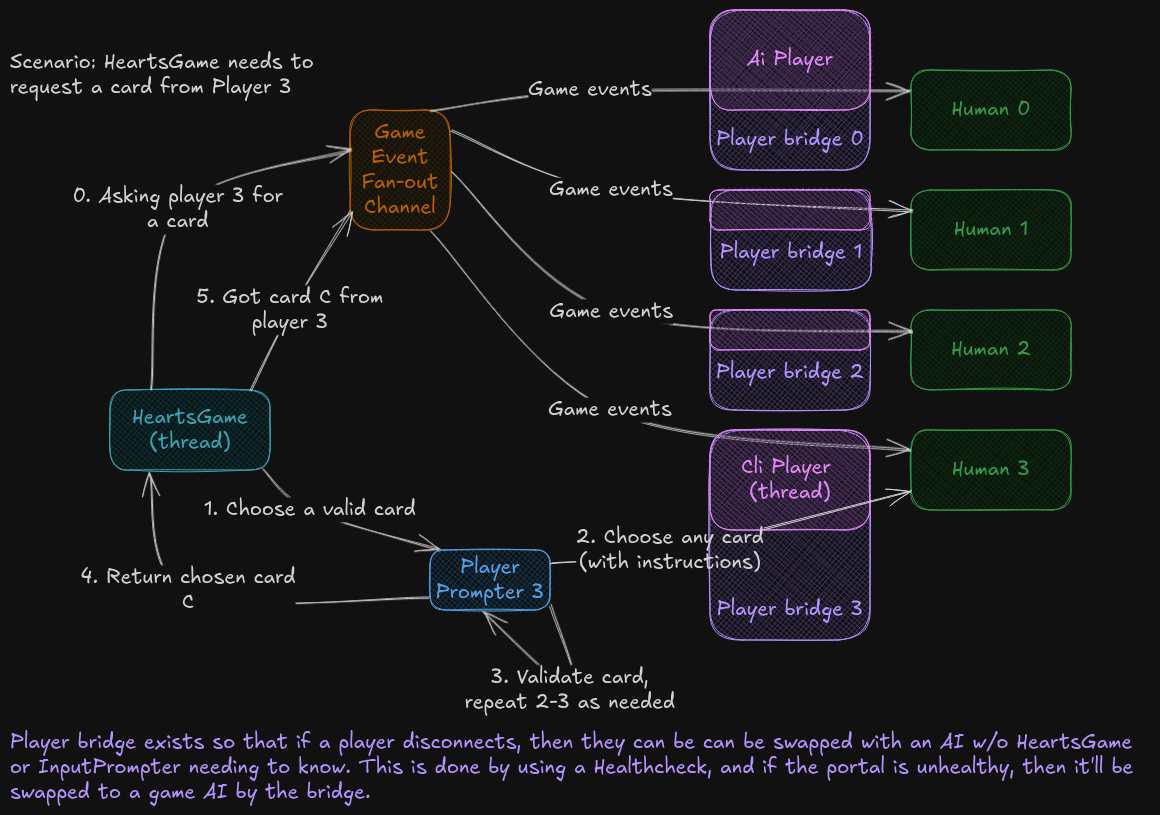
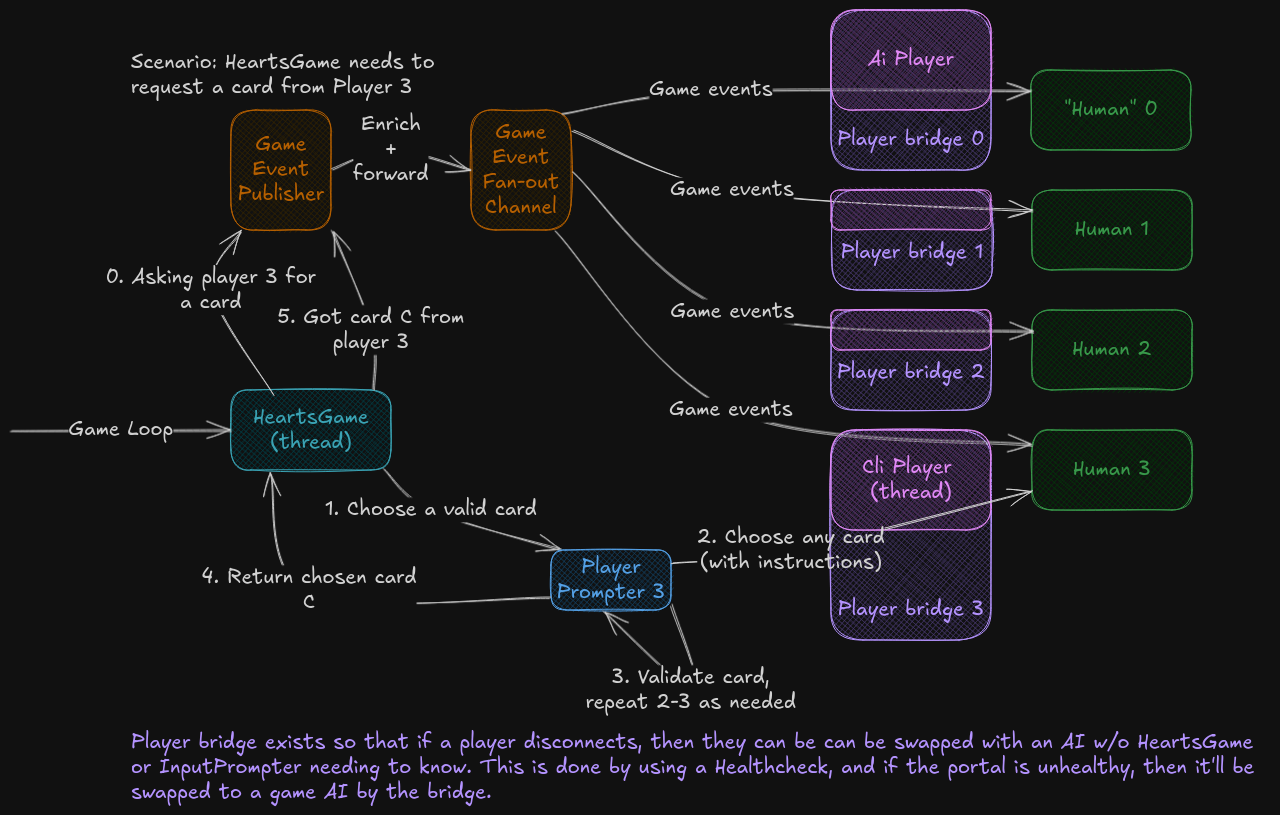
Add IGameEventPublisher

Changed region(s): [[0.0, 0.0, 0.9931, 0.9816], [0.4966, 0.3067, 0.5276, 0.3374]]

diff --git a/src/Library/Core/CardUtils/Dealer.cs b/src/Library/Core/CardUtils/Dealer.cs
@@ -1,6 +1,5 @@
 using System.Runtime.InteropServices;
 using System.Security.Cryptography;
-using System.Threading.Channels;
 
 using Microsoft.Extensions.Logging;
 
@@ -32,15 +31,15 @@ public interface IDealer
 
 public interface IDealerFactory
 {
-    IDealer Make(ChannelWriter<GameEvent> gameEventWriter);
+    IDealer Make(IGameEventPublisher gameEventPublisher);
 }
 
 public class DealerFactory(Dealer.IRng rng, ILogger<Dealer> logger) : IDealerFactory
 {
-    public IDealer Make(ChannelWriter<GameEvent> gameEventWriter) => new Dealer(gameEventWriter, rng, logger);
+    public IDealer Make(IGameEventPublisher gameEventPublisher) => new Dealer(gameEventPublisher, rng, logger);
 }
 
-public class Dealer(ChannelWriter<GameEvent> gameEventWriter, Dealer.IRng rng, ILogger<Dealer> logger) : IDealer
+public class Dealer(IGameEventPublisher gameEventPublisher, Dealer.IRng rng, ILogger<Dealer> logger) : IDealer
 {
     public async Task<List<Cards<TCard>>> ShuffleCutDeal<TCard>(Cards<TCard> deck, int numHands, CancellationToken cancellationToken)
         where TCard : Card
@@ -55,7 +54,7 @@ public class Dealer(ChannelWriter<GameEvent> gameEventWriter, Dealer.IRng rng, I
     {
         logger.LogInformation("Shuffling the deck");
         rng.Shuffle(CollectionsMarshal.AsSpan(deck));
-        await gameEventWriter.WriteAsync(GameEvent.DeckShuffled.Singleton, cancellationToken);
+        await gameEventPublisher.Publish(GameEvent.DeckShuffled.Singleton, cancellationToken);
         return deck;
     }
 
@@ -90,7 +89,7 @@ public class Dealer(ChannelWriter<GameEvent> gameEventWriter, Dealer.IRng rng, I
         Cards<TCard> newCards = new(capacity: deck.Count);
         newCards.AddRange(cardsAboveCut);
         newCards.AddRange(cardsBelowAndAtCut);
-        await gameEventWriter.WriteAsync(GameEvent.DeckCut.Singleton, cancellationToken);
+        await gameEventPublisher.Publish(GameEvent.DeckCut.Singleton, cancellationToken);
         return newCards;
     }
 
@@ -113,7 +112,7 @@ public class Dealer(ChannelWriter<GameEvent> gameEventWriter, Dealer.IRng rng, I
             iCurrHand.Tick();
         }
 
-        await gameEventWriter.WriteAsync(new GameEvent.DeckDealt(numHands), cancellationToken);
+        await gameEventPublisher.Publish(new GameEvent.DeckDealt(numHands), cancellationToken);
         return hands;
     }
 

diff --git a/tests/XUnitTests/Library/Core/CardUtils/DealerTests.cs b/tests/XUnitTests/Library/Core/CardUtils/DealerTests.cs
@@ -1,7 +1,5 @@
-using System.Threading.Channels;
-
 using CoolCardGames.Library.Core.CardUtils;
-using CoolCardGames.Library.Core.GameEvents;
+using CoolCardGames.Library.Core.GameEventTypes;
 
 using Microsoft.Extensions.Logging.Abstractions;
 
@@ -9,16 +7,16 @@ namespace CoolCardGames.XUnitTests.Library.Core.CardUtils;
 
 public sealed class DealerTests
 {
-    private readonly Channel<GameEvent> _channel = Channel.CreateUnbounded<GameEvent>();
     private readonly Dealer _dealer;
     private readonly RngMock _rng;
-    private readonly List<GameEvent> _events = [];
+    private readonly ListGameEventPublisher _publisher;
 
     public DealerTests()
     {
+        _publisher = new ListGameEventPublisher();
         _rng = new RngMock();
         _dealer = new Dealer(
-            gameEventWriter: _channel.Writer,
+            gameEventPublisher: _publisher,
             rng: _rng,
             logger: NullLogger<Dealer>.Instance);
     }
@@ -58,8 +56,8 @@ public sealed class DealerTests
         ]);
         Assert.True(deck.Matches(expectedDeck));
 
-        Assert.Single(_events);
-        Assert.Equal(GameEvent.DeckCut.Singleton, _events[0]);
+        Assert.Single(_publisher.Events);
+        Assert.Equal(GameEvent.DeckCut.Singleton, _publisher.Events[0]);
     }
 
     [Fact]
@@ -76,8 +74,8 @@ public sealed class DealerTests
                 numChangedDecks++;
             prevDeck = new Cards<Card>(deck);
 
-            Assert.Equal(i+1, _events.Count);
-            Assert.Equal(GameEvent.DeckShuffled.Singleton, _events[i]);
+            Assert.Equal(i+1, _publisher.Events.Count);
+            Assert.Equal(GameEvent.DeckShuffled.Singleton, _publisher.Events[i]);
         }
 
         Assert.True(numChangedDecks > 3);
@@ -133,8 +131,8 @@ public sealed class DealerTests
         Assert.True(expectedHand2.Matches(hands[2]));
         Assert.True(expectedHand3.Matches(hands[3]));
 
-        Assert.Single(_events);
-        Assert.Equal(new GameEvent.DeckDealt(4), _events[0]);
+        Assert.Single(_publisher.Events);
+        Assert.Equal(new GameEvent.DeckDealt(4), _publisher.Events[0]);
     }
 
     private class RngMock : Dealer.IRng

diff --git a/src/Library/Games/Hearts/HeartsGameFactory.cs b/src/Library/Games/Hearts/HeartsGameFactory.cs
@@ -10,13 +10,14 @@ namespace CoolCardGames.Library.Games.Hearts;
 
 public class HeartsGameFactory(
     ChannelFanOutFactory channelFanOutFactory,
+    ChannelGameEventPublisherFactory channelGameEventPublisherFactory,
     IDealerFactory dealerFactory,
     IOptionsMonitor<HeartsSettings> settingsMonitor,
     ILogger<HeartsGame> logger)
 {
     public HeartsSettings DefaultHeartsSettings => settingsMonitor.CurrentValue;
 
-    public HeartsGame Make(List<IPlayer<HeartsCard>> players, HeartsSettings? settings = null)
+    public Game Make(List<IPlayer<HeartsCard>> players, CancellationToken cancellationToken, HeartsSettings? settings = null)
     {
         if (players.Count != HeartsGame.NumPlayers)
             throw new ArgumentException($"{nameof(players)} must have {HeartsGame.NumPlayers} elements, but it has {players.Count} elements");
@@ -46,16 +47,17 @@ public class HeartsGameFactory(
             .ToList()
             .AsReadOnly();
 
-        var gameEvents = Channel.CreateUnbounded<GameEvent>();
-        var dealer = dealerFactory.Make(gameEvents.Writer);
+        var gameEventsChannel = Channel.CreateUnbounded<GameEvent>();
+        var gameEventsPublisher = channelGameEventPublisherFactory.Make(gameEventsChannel.Writer);
+        var dealer = dealerFactory.Make(gameEventsPublisher);
 
-        var channelFanOut = channelFanOutFactory.Make(gameEvents.Reader);
+        var channelFanOut = channelFanOutFactory.Make(gameEventsChannel.Reader);
         foreach (var player in players)
         {
             var chanReader = channelFanOut.CreateReader(name: player.AccountCard.ToString());
             player.CurrentGamesEvents = chanReader;
         }
 
-        return new HeartsGame(gameEvents.Writer, prompters, gameState, dealer, settings, logger);
+        return new HeartsGame(gameEventsPublisher, prompters, gameState, dealer, settings, logger);
     }
 }

diff --git a/src/Library/Games/Hearts/HeartsGame.cs b/src/Library/Games/Hearts/HeartsGame.cs
@@ -1,13 +1,14 @@
 using System.Diagnostics;
-using System.Threading.Channels;
 
 using Microsoft.Extensions.Logging;
 
 namespace CoolCardGames.Library.Games.Hearts;
 
-// TODO: add an event (w/ ID) to say that game is about to ask player P for a card or cards, and
-//       then send that ID in the request to P so P can make sure it's up to date
-//       (also prob send game state so it can hard reset if needed?)
+// TODO: need to kick off chanFanOut
+//       only want to kick off if game starts tho, otherwise will leak channels
+//       how will gameEventsChan get closed?
+//       make a GameHarness proxy that kicks off all svcs and handles closing everything down?
+//           make Game disposable and have GameHarness have startup+disposal Func<Task> lists?
 
 // TODO: mv log scoping to base class? would need a settings base class too
 
@@ -21,17 +22,19 @@ namespace CoolCardGames.Library.Games.Hearts;
 
 // TODO: decompose Hearts class to make it easier to test
 
+// TODO: revisit HeartsGame and HeartsGameFactory and see how they can be reused
+
 /// <remarks>
 /// It is intended to use <see cref="HeartsGameFactory"/> to instantiate this service.
 /// </remarks>
 public class HeartsGame(
-    ChannelWriter<GameEvent> gameEventWriter,
+    IGameEventPublisher gameEventPublisher,
     IReadOnlyList<HeartsPlayerPrompter> playerPrompters,
     HeartsGameState gameState,
     IDealer dealer,
     HeartsSettings settings,
     ILogger<HeartsGame> logger)
-    : Game(gameEventWriter, logger)
+    : Game(gameEventPublisher, logger)
 {
     public const int NumPlayers = 4;
 

diff --git a/src/Library/Core/GameEventUtils/ChannelGameEventPublisher.cs b/src/Library/Core/GameEventUtils/ChannelGameEventPublisher.cs
@@ -1,0 +1,36 @@
+using System.Threading.Channels;
+
+using Microsoft.Extensions.Logging;
+
+namespace CoolCardGames.Library.Core.GameEventUtils;
+
+/// <summary>
+/// Instead of having games and the dealer and other services writing directly to a channel, this
+/// interface decouples event publishers and the event publishing. This is done primarily to allow
+/// for easy enrichment of game events (without having to muddle the oh so reusable and modular
+/// <see cref="ChannelFanOut{TMessage}"/>).
+/// </summary>
+public interface IGameEventPublisher
+{
+    ValueTask Publish(GameEvent gameEvent, CancellationToken cancellationToken);
+}
+
+/// <remarks>
+/// This is intended to be instantiated via <see cref="ChannelGameEventPublisherFactory"/> and to be
+/// instantiated once per game instance.
+/// </remarks>
+public class ChannelGameEventPublisher(
+    ChannelWriter<GameEvent> writer,
+    ILogger<ChannelGameEventPublisher> logger)
+    : IGameEventPublisher
+{
+    private uint _id = 0;
+
+    public ValueTask Publish(GameEvent gameEvent, CancellationToken cancellationToken)
+    {
+        var currId = Interlocked.Increment(ref _id);
+        logger.LogInformation("Setting the game event's ID to {GameEventId}", currId);
+        gameEvent = gameEvent with { Id = currId.ToString() };
+        return writer.WriteAsync(gameEvent, cancellationToken);
+    }
+}

diff --git a/src/Library/Core/MiscUtils/ChannelFanOut.cs b/src/Library/Core/MiscUtils/ChannelFanOut.cs
@@ -20,11 +20,7 @@ public class ChannelFanOut<TMessage>(
         if (_destinations.Any(destination => destination.Name == name))
             throw new ArgumentException($"There is already a destination with name {name}");
 
-        var channel = Channel.CreateUnbounded<TMessage>(new UnboundedChannelOptions()
-        {
-            SingleWriter = true,
-            SingleReader = singleReader,
-        });
+        var channel = Channel.CreateUnbounded<TMessage>(new UnboundedChannelOptions() { SingleWriter = true, SingleReader = singleReader, });
         var destination = new Destination(name, channel);
         _destinations.Add(destination);
         return destination.Channel.Reader;
@@ -55,6 +51,7 @@ public class ChannelFanOut<TMessage>(
 
                 logger.LogInformation("Fanned out message");
             }
+
             logger.LogInformation("Ending fan out");
         }
         catch (Exception e)
@@ -97,5 +94,5 @@ public class ChannelFanOut<TMessage>(
         logger.LogInformation("Completed all the destination channels");
     }
 
-    private readonly record struct Destination(string Name, Channel<TMessage> Channel);
+    protected readonly record struct Destination(string Name, Channel<TMessage> Channel);
 }

diff --git a/src/Library/Core/GameEventTypes/GameEvent.cs b/src/Library/Core/GameEventTypes/GameEvent.cs
@@ -1,4 +1,4 @@
-namespace CoolCardGames.Library.Core.GameEvents;
+namespace CoolCardGames.Library.Core.GameEventTypes;
 
 /// <summary>
 /// This type contains implementations that represent game events, like a card being played.
@@ -7,5 +7,11 @@ namespace CoolCardGames.Library.Core.GameEvents;
 /// These are intended primarily for UI notifications, but they can definitely be used for
 /// other things like event-based game implementations or card-counting functionality.
 /// </remarks>
-/// <param name="Summary"></param>
-public abstract partial record GameEvent(string Summary);
+public abstract partial record GameEvent(string Summary)
+{
+    /// <summary>
+    /// This should be treated as an opaque string: equality can be performed, but not comparisons
+    /// (less-than or greater-than).
+    /// </summary>
+    public string Id { get; init; } = "";
+}

diff --git a/src/Library/Core/Game.cs b/src/Library/Core/Game.cs
@@ -1,10 +1,8 @@
-using System.Threading.Channels;
-
 using Microsoft.Extensions.Logging;
 
 namespace CoolCardGames.Library.Core;
 
-public abstract class Game(ChannelWriter<GameEvent> gameEventWriter, ILogger<Game> logger)
+public abstract class Game(IGameEventPublisher gameEventPublisher, ILogger<Game> logger)
 {
     public abstract string Name { get; }
 
@@ -35,6 +33,6 @@ public abstract class Game(ChannelWriter<GameEvent> gameEventWriter, ILogger<Gam
 
     protected async Task PublishGameEvent(GameEvent gameEvent, CancellationToken cancellationToken)
     {
-        await gameEventWriter.WriteAsync(gameEvent, cancellationToken);
+        await gameEventPublisher.Publish(gameEvent, cancellationToken);
     }
 }

diff --git a/tests/XUnitTests/QueueGameEventWriter.cs b/tests/XUnitTests/QueueGameEventWriter.cs
@@ -1,0 +1,15 @@
+using CoolCardGames.Library.Core.GameEventTypes;
+using CoolCardGames.Library.Core.GameEventUtils;
+
+namespace CoolCardGames.XUnitTests;
+
+public class ListGameEventPublisher : IGameEventPublisher
+{
+    public List<GameEvent> Events { get; } = [];
+
+    public ValueTask Publish(GameEvent gameEvent, CancellationToken cancellationToken)
+    {
+        Events.Add(gameEvent);
+        return ValueTask.CompletedTask;
+    }
+}

diff --git a/src/Library/GlobalUsings.cs b/src/Library/GlobalUsings.cs
@@ -3,6 +3,7 @@
 global using CoolCardGames.Library.Core;
 global using CoolCardGames.Library.Core.CardTypes;
 global using CoolCardGames.Library.Core.CardUtils;
-global using CoolCardGames.Library.Core.GameEvents;
 global using CoolCardGames.Library.Core.MiscUtils;
+global using CoolCardGames.Library.Core.GameEventTypes;
+global using CoolCardGames.Library.Core.GameEventUtils;
 global using CoolCardGames.Library.Core.State;

diff --git a/src/Cli/CliPlayer.cs b/src/Cli/CliPlayer.cs
@@ -1,12 +1,13 @@
 using System.Threading.Channels;
 
 using CoolCardGames.Library.Core.CardTypes;
-using CoolCardGames.Library.Core.GameEvents;
+using CoolCardGames.Library.Core.GameEventTypes;
 using CoolCardGames.Library.Core.Players;
 
 namespace CoolCardGames.Cli;
 
 // TODO: have a configurable delay b/w messages
+
 public class CliPlayer<TCard>(AccountCard accountCard) : IPlayer<TCard>
     where TCard : Card
 {

diff --git a/src/Library/Core/GameEventUtils/ChannelGameEventPublisherFactory.cs b/src/Library/Core/GameEventUtils/ChannelGameEventPublisherFactory.cs
@@ -1,0 +1,13 @@
+using System.Threading.Channels;
+
+using Microsoft.Extensions.Logging;
+
+namespace CoolCardGames.Library.Core.GameEventUtils;
+
+public class ChannelGameEventPublisherFactory(ILogger<ChannelGameEventPublisher> logger)
+{
+    public ChannelGameEventPublisher Make(ChannelWriter<GameEvent> writer)
+    {
+        return new ChannelGameEventPublisher(writer, logger);
+    }
+}
